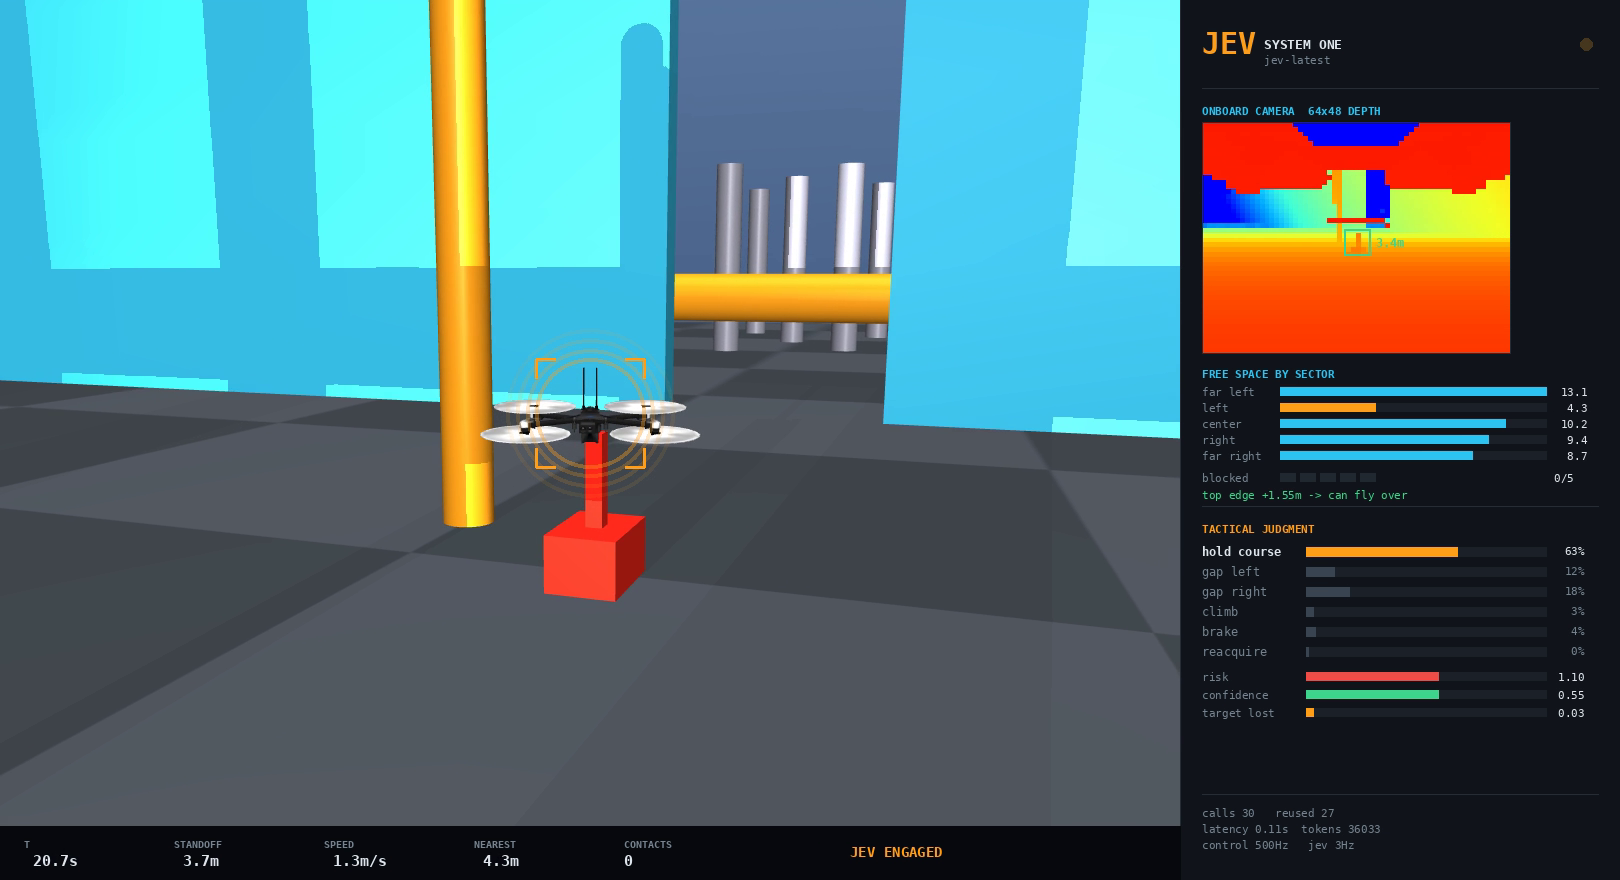
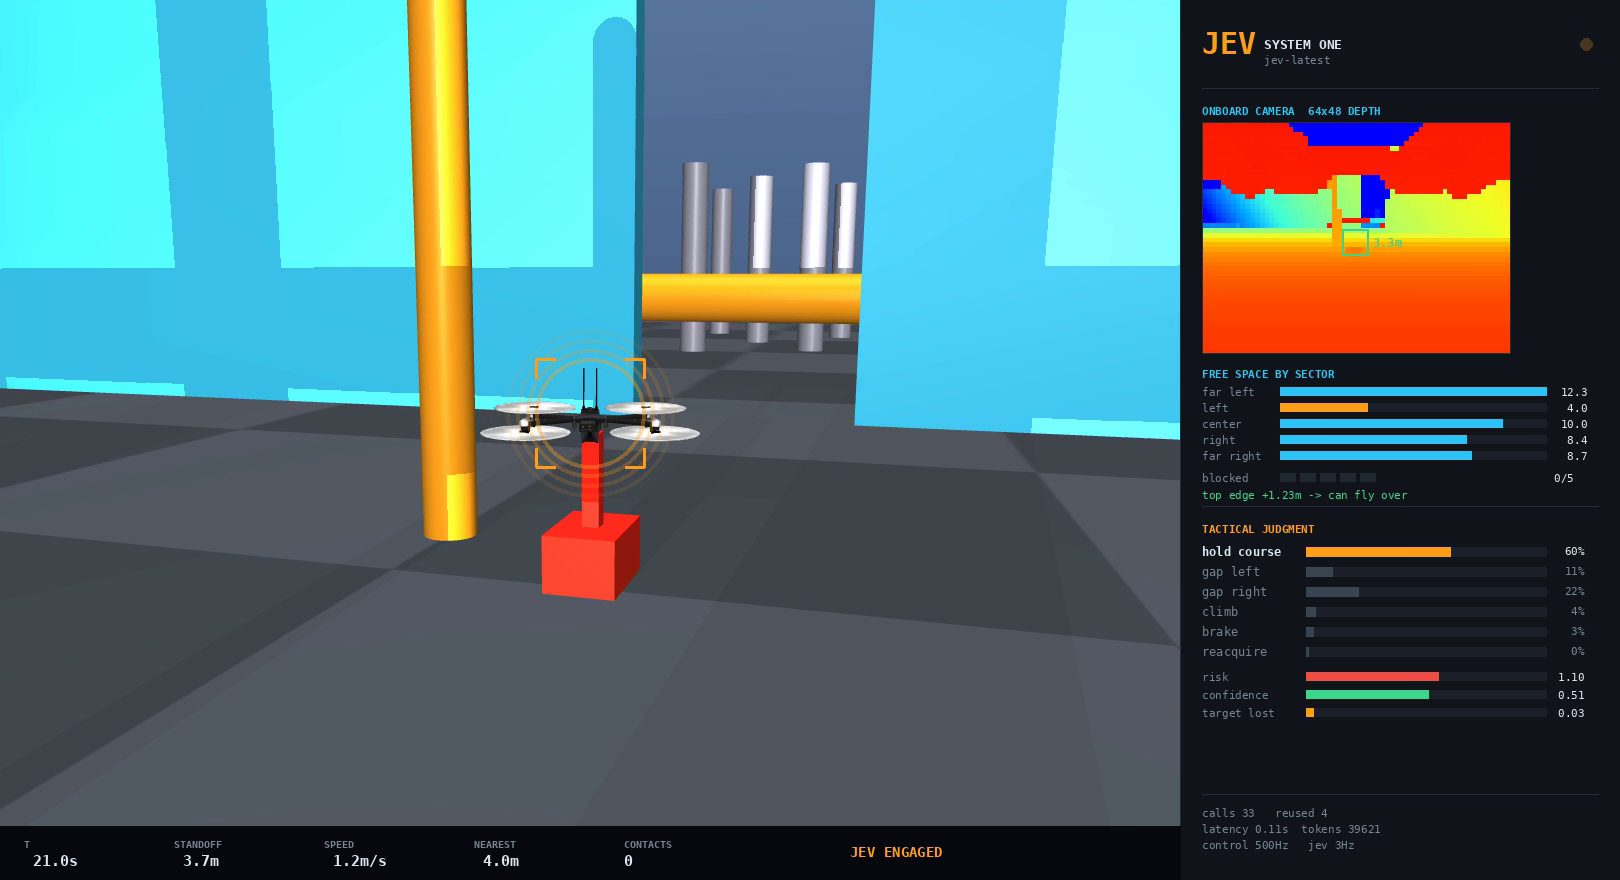
Target memory: estimate where the rover went instead of sweeping blindly
A camera bearing is useless once the target leaves frame. The drone was
sweeping around a stale heading and sitting still while the rover drove off.
Now it converts bearing + range + own pose into a world-frame position, carries
it forward with the observed velocity, and flies there. Validated against
ground truth: 0.14 m position error, 0.12 m/s velocity error.

The velocity has to be differentiated over ~1s; over a single 0.07s camera
frame, pixel noise becomes tens of m/s and the drone extrapolates itself 100 m
off course.

Whole course now: 77.5 m, target in view 82% of the time, zero collisions,
including losing the rover in the cluster and re-acquiring it.

diff --git a/run.py b/run.py
@@ -24,7 +24,8 @@ TRACE = bool(os.environ.get("TRACE"))
 
 
 ROVER_SPEED = 1.15
-SEARCH_SPEED = 2.4       # while searching, still out-pace the rover
+SEARCH_SPEED = 2.4
+TARGET_MAX_SPEED = 1.6   # the rover cannot move faster than this; clamp the estimate       # while searching, still out-pace the rover
 
 
 def rover_pose(t):
@@ -74,6 +75,24 @@ class Guidance:
         self.commit = None
         self.commit_left = 0
         self.search_yaw = None
+        # world-frame estimate of the target, built from our own pose + the camera
+        # bearing/range. No ground truth; this is what the aircraft could work out.
+        self.tgt_w = None
+        self.tgt_v = np.zeros(2)
+        self.tgt_t = 0.0
+        self.tgt_hist = []
+
+    def _search_heading(self, yaw, t, pos):
+        """Where the target probably is now: last fix, carried forward by the
+        velocity we observed while we could still see it."""
+        if self.tgt_w is None or pos is None:
+            return self.search_yaw if self.search_yaw is not None else yaw
+        lead = float(np.clip(t - self.tgt_t, 0.0, 5.0))   # do not extrapolate forever
+        aim = self.tgt_w + self.tgt_v * lead
+        d = aim - pos[:2]
+        if np.linalg.norm(d) < 0.5:
+            return yaw
+        return float(np.arctan2(d[1], d[0]))
 
     def _open_side(self, sec, left):
         """Bearing of the more open sector on the requested side."""
@@ -81,7 +100,7 @@ class Guidance:
         best = max(names, key=lambda n: sec[n])
         return self.eye.sector_bearing(best)
 
-    def __call__(self, scene, judg, yaw, z, use_jev, fresh=False):
+    def __call__(self, scene, judg, yaw, z, use_jev, fresh=False, t=0.0, pos=None):
         if self.yaw_sp is None:
             self.yaw_sp = yaw
         sec = scene["sector_range_m"]
@@ -92,6 +111,24 @@ class Guidance:
             rng = tgt["range_m"]
             self.lost_for = 0.0
             self.search_yaw = None
+            if fresh and pos is not None:
+                b = self.last_bearing
+                c, s = np.cos(yaw), np.sin(yaw)
+                off = np.array([rng * np.cos(b), rng * np.sin(b)])
+                w = pos[:2] + np.array([c * off[0] - s * off[1], s * off[0] + c * off[1]])
+                self.tgt_w, self.tgt_t = w, t
+                # Differentiate over a ~1s baseline, not over one camera frame:
+                # a 0.07s interval turns pixel noise into tens of m/s.
+                self.tgt_hist.append((t, w))
+                self.tgt_hist = [(ti, wi) for ti, wi in self.tgt_hist if t - ti <= 1.2]
+                if len(self.tgt_hist) >= 2:
+                    (t0, w0), (t1, w1) = self.tgt_hist[0], self.tgt_hist[-1]
+                    if t1 - t0 >= 0.4:
+                        v = (w1 - w0) / (t1 - t0)
+                        sp = np.linalg.norm(v)
+                        if sp > TARGET_MAX_SPEED:          # cannot be faster than the rover
+                            v = v / sp * TARGET_MAX_SPEED
+                        self.tgt_v = 0.6 * self.tgt_v + 0.4 * v
         else:
             rng = STANDOFF + 1.5
             self.lost_for = tgt["unseen_for_s"] or 0.0
@@ -157,9 +194,10 @@ class Guidance:
             elif mv == "reacquire":
                 if fresh:
                     self.sweep += 0.35
-                    self.yaw_sp = (self.search_yaw if self.search_yaw is not None else yaw) + 0.7 * np.sin(self.sweep)
+                    self.yaw_sp = self._search_heading(yaw, t, pos) + 0.45 * np.sin(self.sweep)
                 absolute_yaw = self.yaw_sp
-                fwd, slide, turn_bias = 0.3, 0.0, 0.0
+                # must out-run the rover, or a lost target can never be regained
+                fwd, slide, turn_bias = SEARCH_SPEED, 0.0, 0.0
             else:
                 acted = False                      # hold_course changes nothing
             if judg["risk"] > THRESH["risk_slow_down"]:
@@ -168,7 +206,7 @@ class Guidance:
             # baseline search: never keep flying a bearing we can no longer see
             if fresh:
                 self.sweep += 0.3
-                self.yaw_sp = (self.search_yaw if self.search_yaw is not None else yaw) + 0.5 * np.sin(self.sweep)
+                self.yaw_sp = self._search_heading(yaw, t, pos) + 0.35 * np.sin(self.sweep)
             absolute_yaw = self.yaw_sp
             fwd, slide = SEARCH_SPEED, 0.0
 
@@ -275,7 +313,7 @@ def episode(seed=0, seconds=35.0, use_jev=True, video=None, hz=None, budget=None
                              scene["sectors_blocked_of_5"], scene["nearest_obstacle_m"],
                              scene["obstruction_taller_than_camera_can_see"], scene["target"]["visible"]),
                           flush=True)
-            v_des, yaw_cmd, acted, reflex = guide(scene, judg, yaw, pos[2], use_jev, fresh)
+            v_des, yaw_cmd, acted, reflex = guide(scene, judg, yaw, pos[2], use_jev, fresh, t, pos)
             fresh = False
             jev_steps += acted
             reflex_steps += reflex

diff --git a/README.md b/README.md
@@ -67,27 +67,30 @@ an obstacle is not something it can express.
 
 | | baseline (no Jev) | Jev engaged |
 |---|---|---|
-| furthest point reached | 17.6 / 17.5 / 17.4 m | **55.2 m (all five stations)** |
-| target kept in view | ~19% | **57%** |
-| time pinned in reflex | 60-65% | **9.5%** |
-| collisions | 0 / 0 / 0 | 1 |
+| furthest point reached | 17.7 / 17.7 / 17.7 m | **77.5 m (whole course)** |
+| target kept in view | ~19% | **82%** |
+| time pinned in reflex | 65-71% | **9%** |
+| collisions | 0 / 0 / 0 | **0** |
 
-The baseline stops dead at station 2 every time. With Jev the drone clears the
-whole course in about 41 s at up to 3.6 m/s, with the rover in view at every
-station:
+The baseline stops dead at station 2 every single time. With Jev the drone
+clears the entire course in about 47 s at up to 3.6 m/s:
 
 ```
-x=19  beam0       t=14.9  z=3.0   climbed over
+x=19  beam0       t=15.7  z=3.0   climbed over
 x=26  turnstiles  t=20.3  z=1.6   timed the sweeping arms
-x=38  GATE        t=31.1  z=1.6   threaded the sliding 3.2 m gap
-x=44  beam1       t=37.1  z=2.8   climbed over
-x=50  cluster     t=41.1  z=1.6   through the pillars
+x=38  GATE        t=31.3  z=1.6   threaded the sliding 3.2 m gap
+x=44  beam1       t=36.8  z=2.8   climbed over
+x=50  cluster     t=41.3  z=1.6   lost the rover in the pillars
+x=58  exit        t=46.6          re-acquired it and closed back to 3.7 m
 ```
 
 ![threading the sliding gate](docs/gate.png)
 
-Judgments used across the run: 14 gap_left, 12 gap_right, 10 hold_course,
-7 climb, 6 reacquire, 1 brake. 121 calls, 0.113 s median latency.
+80 calls over 65 s, 0.11 s median latency, 96k tokens.
+
+The cluster is worth noting: the drone genuinely loses the rover there, flies to
+where it estimates the rover has got to, and picks it back up. That recovery is
+the difference between a demo and a system.
 
 **Honest caveats.** The Jev column is a single 65 s run, not a seed-matched
 average. On an earlier, simpler arena a matched 3-seed comparison showed **no
@@ -203,6 +206,14 @@ cost real time:
 - Anything you have already climbed over is not a threat. Obstacle pixels have
   to be filtered by height relative to the aircraft, or the reflex shoves you
   back off the wall you just cleared.
+- **A lost target needs a world-frame estimate, not a bearing.** A camera
+  bearing is meaningless the moment the target leaves frame, so the drone swept
+  blindly around a stale heading and sat still while the rover drove away. Fix:
+  convert bearing+range+own pose into a world position, carry it forward with the
+  observed velocity, and fly there. Measured against ground truth the estimate is
+  good to 0.14 m and 0.12 m/s - and it must be differentiated over ~1 s, because
+  over one 0.07 s camera frame pixel noise becomes tens of m/s and the drone
+  extrapolates itself off the map.
 - **A reflex must brake for what is in your path, not what is beside you.** Using
   the nearest obstacle across the whole forward cone meant walls 1.2 m to either
   side triggered a permanent brake, so any gap narrower than 2x the reflex radius
